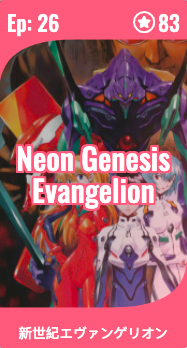
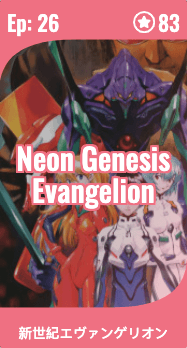
optimized images for about section

diff --git a/src/components/AboutSectionHome.tsx b/src/components/AboutSectionHome.tsx
@@ -21,6 +21,7 @@ const AboutSectionHome: React.FC<{}> = () => {
                     <img 
                         src={Example1}
                         alt="example of card for the anime Neon Genesis Evangelion"
+                        loading="lazy"
                     />
                 </div>
 
@@ -28,6 +29,7 @@ const AboutSectionHome: React.FC<{}> = () => {
                     <img 
                         src={Example2}
                         alt="example of card for the anime Fullmetal Alchemist: Brotherhood"
+                        loading="lazy"
                     />
                 </div>
 
@@ -35,6 +37,7 @@ const AboutSectionHome: React.FC<{}> = () => {
                     <img 
                         src={Example3}
                         alt="exmaple of card for the anime Soul Eater"
+                        loading="lazy"
                     />
                 </div>
             </div>

diff --git a/src/components/AboutSectionHome.module.scss b/src/components/AboutSectionHome.module.scss
@@ -24,7 +24,7 @@
     & > p {
         font-size: 2.2rem;
         line-height: 2.8rem;
-        @include stroke($nia-pink, 2px);
+        @include stroke($nia-pink, 1.5px);
 
         margin-bottom: 3rem;
 
@@ -39,7 +39,7 @@
     font-size: 5rem;
     color: $white;
     margin-bottom: 3rem;
-    @include stroke($nia-pink, 3.5px);
+    @include stroke($nia-pink, 2.25px);
 }
 
 .about_example_cards {
